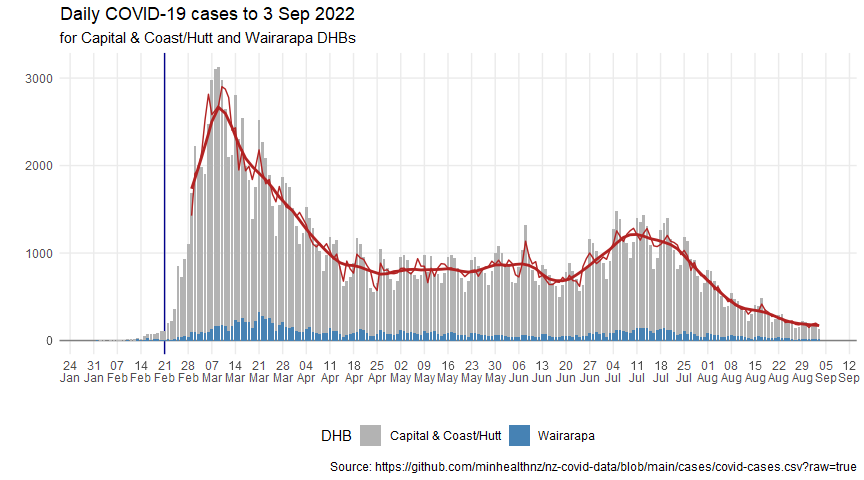
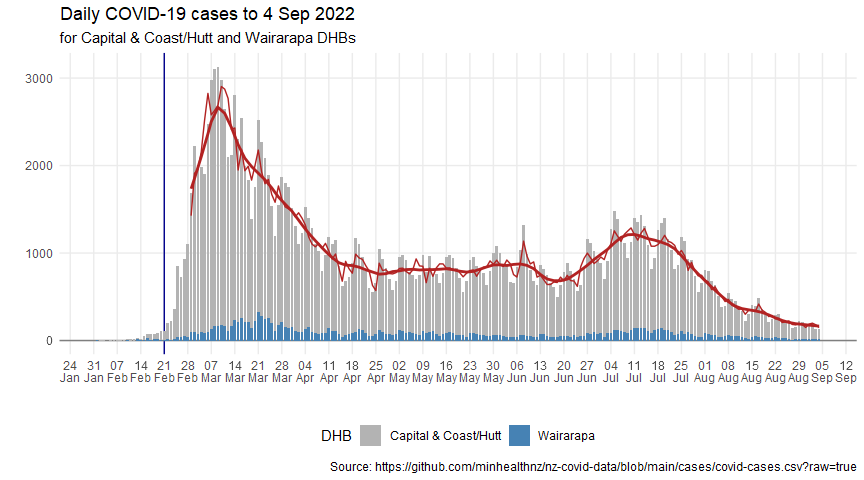
Update for 20220905

diff --git a/covid-post-peak-analysis.md b/covid-post-peak-analysis.md
@@ -34,7 +34,7 @@ cases_df <- read_csv(case_data_url) %>%
   clean_names()
 ```
 
-    ## Rows: 1747739 Columns: 7
+    ## Rows: 1749139 Columns: 7
     ## ── Column specification ────────────────────────────────────────────────────────
     ## Delimiter: ","
     ## chr  (5): Case Status, Sex, Age group, DHB, Overseas travel
@@ -51,7 +51,7 @@ cases_by_dhb_df <- cases_df %>%
   count(report_date, dhb, case_status)
 ```
 
-## Wellington figures up to 3 Sep 2022
+## Wellington figures up to 4 Sep 2022
 
 Including Hutt and Wairarapa as well as CCDHB.
 
@@ -171,11 +171,11 @@ maxima <- dhb_cases_after_transform_stl_df %>%
   summarise(cases = max(cases), adjusted = max(season_adjust), trend = max(trend))
 ```
 
-Looking at raw case numbers, the peak on 9 Mar 2022 was about 24.3 times
+Looking at raw case numbers, the peak on 9 Mar 2022 was about 24.1 times
 the lowest recent value.
 
-But when adjusting for the weekly pattern, it was 19.4 times the lowest
-recent adjusted value, and the trend was about 15.6 times the lowest
+But when adjusting for the weekly pattern, it was 19.6 times the lowest
+recent adjusted value, and the trend was about 16.2 times the lowest
 recent trend line.
 
 While the trend might be over-smoothed, the peak coincinded with the
